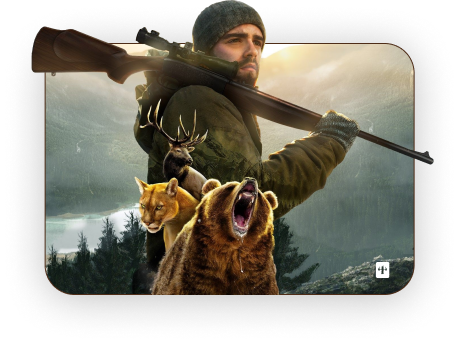
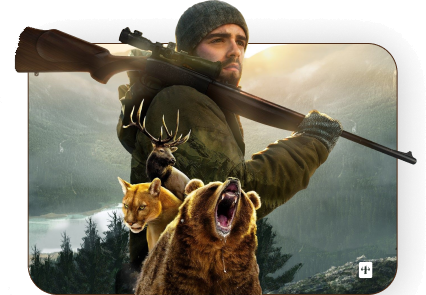
...

diff --git a/src/screens/SubscriptionScreen.tsx b/src/screens/SubscriptionScreen.tsx
@@ -374,9 +374,6 @@ const SubscriptionScreen = ({ navigation }: any) => {
           style={StyleSheet.absoluteFill}
         />
         <ActivityIndicator size="large" color="#0E713E" />
-        <Text style={styles.loaderText}>
-          {!connected ? 'Connecting to billing service...' : 'Loading subscription options...'}
-        </Text>
       </View>
     );
   }
@@ -396,7 +393,7 @@ const SubscriptionScreen = ({ navigation }: any) => {
           {/* Header Section */}
           <View style={styles.header}>
             <TouchableOpacity 
-              onPress={() => navigation.goBack()} 
+              onPress={handleContinueTrial} 
               style={styles.backButton}
               disabled={isPurchasing}
             >
@@ -406,29 +403,45 @@ const SubscriptionScreen = ({ navigation }: any) => {
             <View style={{ width: 40 }} /> 
           </View>
 
+          <View style={styles.heroWrapper}>
+            <Image
+              source={require('../../assets/hunter_hero.png')} 
+              style={styles.heroImage}
+            />
+          </View>
+
           <ScrollView 
             showsVerticalScrollIndicator={false} 
             contentContainerStyle={styles.scrollContent}
           >
             {/* Hero Image */}
-            <View style={styles.heroWrapper}>
-              <Image
-                source={require('../../assets/hunter_hero.png')} 
-                style={styles.heroImage}
-              />
-            </View>
+            
 
             {/* White Card Content */}
             <View style={styles.whiteCard}>
+              <Text style={styles.title}>
+                Hunter Pro Pack
+              </Text>
+
               <Text style={styles.mainTitle}>
-                Lorem ipsum dolor sit amet, consectetur adipiscing elit, sed do eiusmod tempor incididunt ut labore 
+                Stay Connected without linits! Start your FREE 7 day trail today.
+              </Text>
+
+              <Text style={styles.mainDesc}>
+                SafeHuntPro not only eases your mind in the outdoors but also when trying to choose the right features for you . We hve simplified our options to an all inclusive subscription package that allows each user to get the full Safe Hunt Pro experience.
               </Text>
 
               {/* Feature List */}
               <View style={styles.featureContainer}>
-                <FeatureRow text="Lorem ipsum dolor sit amet, consectetur adipiscing elit, sed do eiusmod tempor incididunt ut labore et dolore magna aliqua." />
-                <FeatureRow text="Lorem ipsum dolor sit amet, consectetur adipiscing elit," />
-                <FeatureRow text="Lorem ipsum dolor sit amet" />
+                <Text style={styles.mainTitle}>
+                  Premier Features
+                </Text>
+                
+                <FeatureRow text="User location and notification" />
+                <FeatureRow text="Social Media interaction" />
+                <FeatureRow text="Offline mapping" />
+                <FeatureRow text="Weather" />
+                <FeatureRow text="Hunting Journal" />
               </View>
 
               {/* Error Message */}
@@ -591,32 +604,43 @@ const styles = StyleSheet.create({
   },
   backArrow: { width: 21, height: 21, resizeMode: 'contain' },
   headerTitle: { color: '#FFF', fontSize: 20, fontWeight: '700' },
-  scrollContent: { paddingBottom: 40 },
+  scrollContent: { paddingBottom: 40, position: 'relative' },
   heroWrapper: {
     alignItems: 'center',
-    marginTop: 20,
-    zIndex: 10,
-    elevation: 10,
   },
   heroImage: {
-    // width: width,
-    height: 300,
-    borderRadius: 30,
-    resizeMode: 'contain'
+    height: 250,
+    backgroundColor: 'transparent',
+    resizeMode: 'contain',
   },
   whiteCard: {
     backgroundColor: '#FFF',
-    marginTop: -20,
+    position: 'relative',
     borderRadius: 30,
     paddingHorizontal: 25,
     paddingBottom: 30,
     paddingTop: 30,
     width: '100%'
   },
+  title: {
+    fontFamily: 'Montserrat-Regular',
+    fontWeight: '900',
+    fontSize: 24,
+    color: '#000000',
+    marginBottom: 20,
+  },
   mainTitle: {
     fontFamily: 'Montserrat-Bold',
-    fontWeight: '700',
+    fontWeight: '800',
     fontSize: 14,
+    lineHeight: 17,
+    color: '#000000',
+    marginBottom: 20,
+  },
+  mainDesc: {
+    fontFamily: 'Montserrat-Bold',
+    fontWeight: '500',
+    fontSize: 12,
     lineHeight: 17,
     color: '#000000',
     marginBottom: 20,

diff --git a/src/components/SideMenu.tsx b/src/components/SideMenu.tsx
@@ -115,38 +115,23 @@ const SideMenu: React.FC<SideMenuProps> = ({ isOpen, onClose, userName = "Displa
   };
 
   const handleClearTrial = async () => {
-    Alert.alert(
-      'Clear Trial',
-      'This will reset your trial status. Are you sure?',
-      [
-        {
-          text: 'Cancel',
-          style: 'cancel',
-        },
-        {
-          text: 'Clear',
-          style: 'destructive',
-          onPress: async () => {
-            try {
-              await AsyncStorage.removeItem('HAS_STARTED_TRIAL');
-              
-              // Force navigation refresh
-              // @ts-ignore
-              if (global.refreshNavigation) {
-                // @ts-ignore
-                global.refreshNavigation();
-              }
-              
-              Alert.alert('Success', 'Trial status cleared. Please restart the app to see changes.');
-              onClose();
-            } catch (error) {
-              console.error('Clear trial error:', error);
-              Alert.alert('Error', 'Failed to clear trial status.');
-            }
-          },
-        },
-      ],
-    );
+    try {
+      await AsyncStorage.removeItem('HAS_STARTED_TRIAL');
+      
+      // Force navigation refresh
+      // @ts-ignore
+      if (global.refreshNavigation) {
+        // @ts-ignore
+        global.refreshNavigation();
+        navigation.navigate('Subscription');
+      }
+      
+      // Alert.alert('Success', 'Trial status cleared. Please restart the app to see changes.');
+      onClose();
+    } catch (error) {
+      console.error('Clear trial error:', error);
+      Alert.alert('Error', 'Failed to clear trial status.');
+    }
   };
 
   const MenuItem = ({ 
@@ -217,7 +202,7 @@ const SideMenu: React.FC<SideMenuProps> = ({ isOpen, onClose, userName = "Displa
             <MenuItem label="Messages" icon={ASSETS.messages} onPress={() => handlePress('Message')} />
             <MenuItem label="Map" icon={ASSETS.map} onPress={() => handlePress('Home')} />
             <MenuItem label="Setting" icon={ASSETS.setting} onPress={() => handlePress('Settings')} />
-            {/* <MenuItem label="Clear Trial Status" icon={ASSETS.setting} onPress={() => handleClearTrial()} /> */}
+            <MenuItem label="Subscription" icon={ASSETS.setting} onPress={() => handleClearTrial()} />
 
             <MenuItem label="Terms & conditions" icon={ASSETS.terms} onPress={() => handlePress('TermsConditions')} />
             <MenuItem label="Privacy policy" icon={ASSETS.privacy} onPress={() => handlePress('PrivacyPolicy')} />

diff --git a/src/screens/FeedScreen.tsx b/src/screens/FeedScreen.tsx
@@ -278,6 +278,7 @@ const FeedScreen = () => {
   const [page, setPage] = useState(1);
   const [hasMore, setHasMore] = useState(true);
   const [isLoadingMore, setIsLoadingMore] = useState(false);
+  const [isInitialLoading, setIsInitialLoading] = useState(true);
   
   const navigation = useNavigation<any>();
   const { user, token } = useAppSelector((state) => state.auth);
@@ -308,6 +309,8 @@ const FeedScreen = () => {
     useCallback(() => {
       if (posts.length === 0) {
         loadInitialPosts();
+      } else {
+        setIsInitialLoading(false);
       }
     }, [posts.length])
   );
@@ -315,6 +318,7 @@ const FeedScreen = () => {
   const loadInitialPosts = async () => {
     if (isLoading) return;
     try {
+      setIsInitialLoading(true);
       setPage(1);
       setHasMore(true);
       const result = await getAllPosts({ page: 1, limit: 20 });
@@ -330,6 +334,8 @@ const FeedScreen = () => {
       }
     } catch (error) {
       console.error('Error loading posts:', error);
+    } finally {
+      setIsInitialLoading(false);
     }
   };
 
@@ -773,7 +779,7 @@ const FeedScreen = () => {
     </View>
   );
 
-  if (isLoading) {
+  if (isInitialLoading) {
     return (
       <View style={styles.centerContainer}>
         <ActivityIndicator size="large" color="#0E713E" />

diff --git a/src/screens/HomeScreen.tsx b/src/screens/HomeScreen.tsx
@@ -750,6 +750,7 @@ const HomeScreen = () => {
 
   // Check friend status for a user
   const getFriendStatus = (userId: string): 'accepted' | 'pending' | 'none' => {
+    console.log('currentUser', currentUser)
     if (!currentUser) return 'none';
 
     // Check if user is in sentFriendRequests (as sender)
